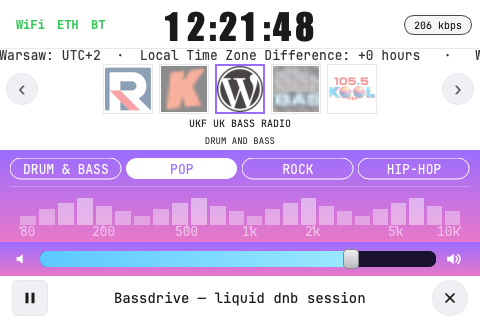
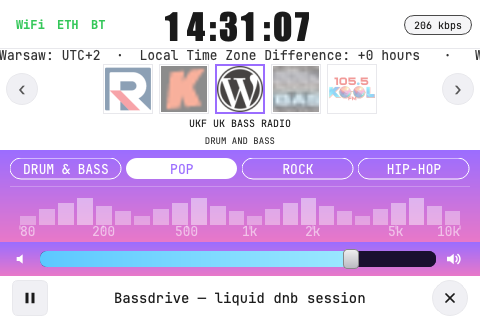
Anonymize WiFi SSID in screenshots and mock data.
Replace wifirifi_2G with MojaSieciWiFi in UI capture fixtures.

diff --git a/build/capture_ui_screenshots.py b/build/capture_ui_screenshots.py
@@ -52,8 +52,8 @@ def main() -> int:
     mock_nm.bluetooth_powered.return_value = True
     mock_nm.bluetooth_connected.return_value = False
     mock_nm.scan_wifi.return_value = [
-        WifiNetwork("wifirifi_2G", 82, True, 6, 2437, True),
-        WifiNetwork("Sasiad_5G", 45, True, 36, 5180, False),
+        WifiNetwork("MojaSieciWiFi", 82, True, 6, 2437, True),
+        WifiNetwork("MojaSieciWiFi", 45, True, 36, 5180, False),
     ]
     eth = MagicMock()
     eth.connected = True
